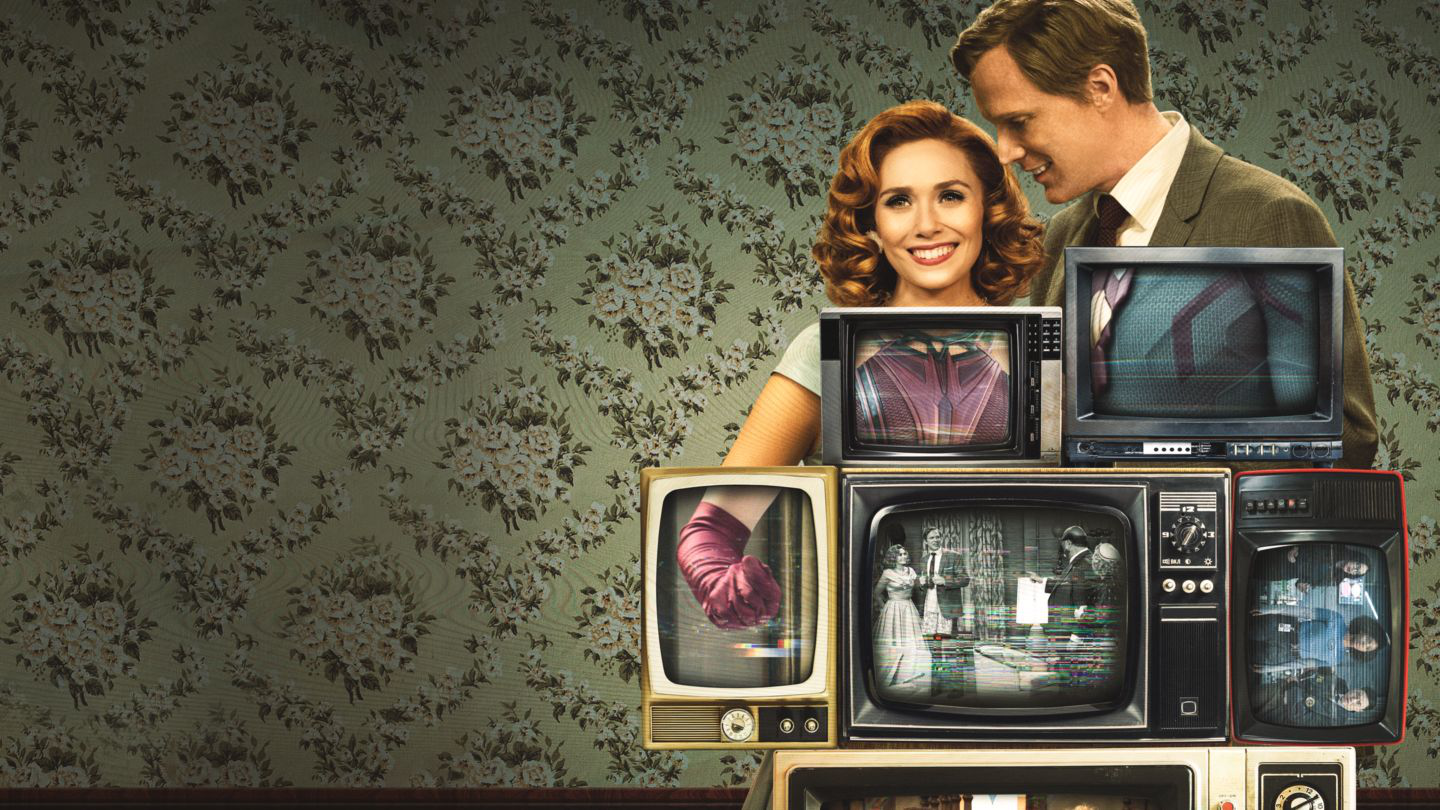
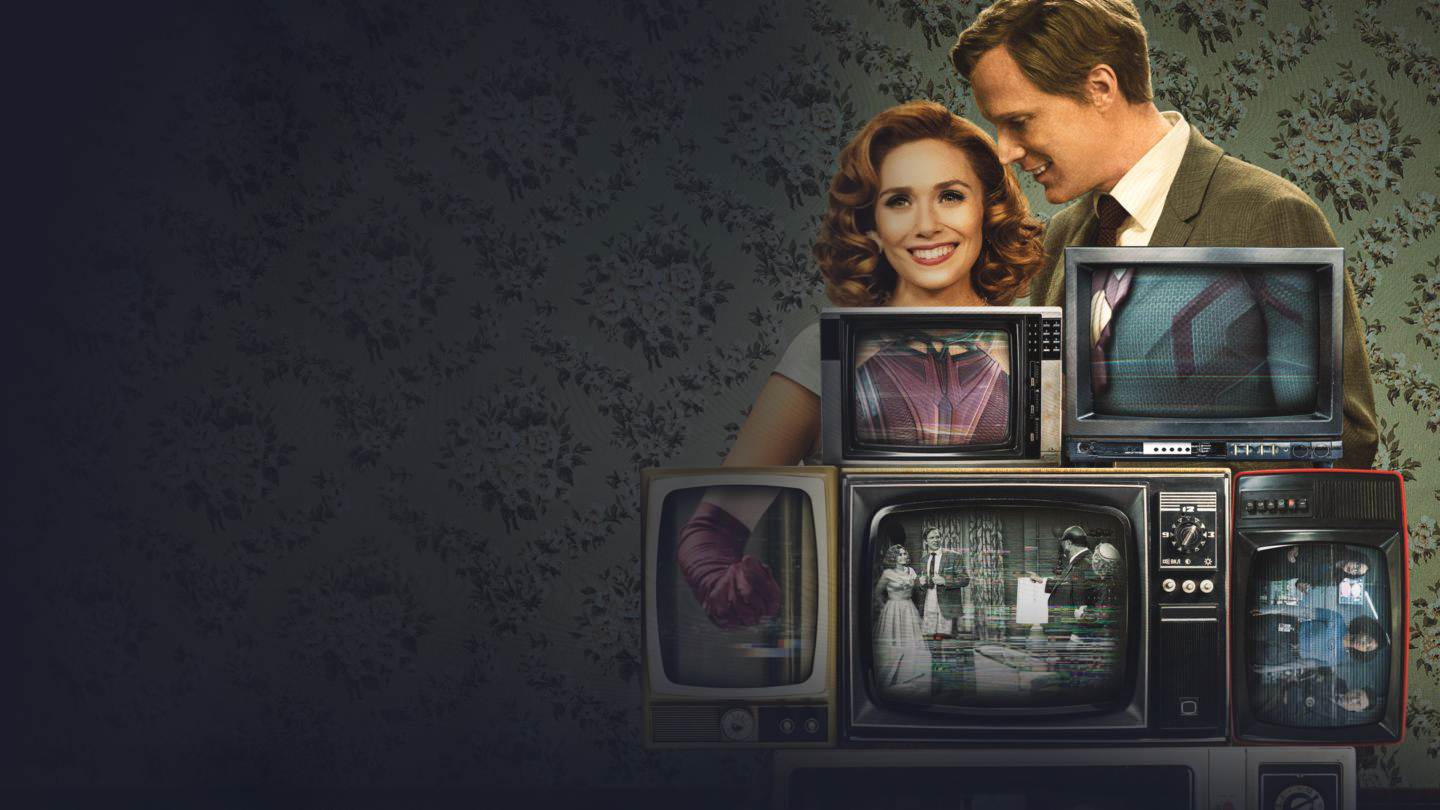
de hoje

diff --git a/src/components/MovieAndSeriePage/styles.ts b/src/components/MovieAndSeriePage/styles.ts
@@ -6,17 +6,24 @@ interface BackgroundProps {
 
 export const ContainerWandavisionPageFilm = styled.div<BackgroundProps>`
   position: relative;
-  background: no-repeat;
 
-  .featuredVertical {
+  /* .featuredVertical {
     width: 100%;
     background: linear-gradient(to top, rgb(26, 29, 41) 10%, transparent 30%);
+
+    @media (min-width: 1280px) {
+      height: 100vh;
+    }
   }
 
   .featuredHorizontal {
     width: 100%;
     background: linear-gradient(to right, rgb(26, 29, 41) 2%, transparent 100%);
-  }
+
+    @media (min-width: 1280px) {
+      height: 100vh;
+    }
+  } */
 
   .background_img {
     position: absolute;
@@ -24,7 +31,7 @@ export const ContainerWandavisionPageFilm = styled.div<BackgroundProps>`
     width: 100%;
     z-index: -999;
     filter: ${props =>
-      props.isScrolled ? 'brightness(55%)' : 'brightness(100%)'};
+      props.isScrolled ? 'brightness(78%)' : 'brightness(100%)'};
     transition: filter 400ms;
     opacity: 350px;
   }
@@ -41,8 +48,18 @@ export const FilmInformation = styled.div`
   flex-direction: column;
 
   .logoFilm_img {
-    margin-top: 100px;
+    margin-top: 130px;
     width: 35%;
+
+    @media (min-width: 2560px) {
+      margin: 300px 0 0 100px;
+      width: 20%;
+    }
+
+    @media (min-width: 3440px) {
+      margin: 600px 0 0 100px;
+      width: 20%;
+    }
 
     @media (max-width: 650px) {
       margin-top: 80px;
@@ -53,6 +70,10 @@ export const FilmInformation = styled.div`
     display: flex;
     justify-content: start;
     width: 550px;
+
+    @media (min-width: 2560px) {
+      margin-left: 100px;
+    }
   }
 
   .genreMovie {
@@ -79,6 +100,10 @@ export const InfoFilm = styled.div`
   margin: 0 30px 0 30px;
   font-family: 'AvenirRoman';
   font-size: 20px;
+
+  @media (min-width: 2560px) {
+    margin-left: 130px;
+  }
 
   .genreMovie {
     margin: 15px 0 15px 0;

diff --git a/src/components/Carousel/index.tsx b/src/components/Carousel/index.tsx
@@ -12,15 +12,28 @@ type CarouselProps = { slides: Slide[] };
 const Carousel = ({ slides }: PropsWithChildren<CarouselProps>) => {
   return (
     <Container>
-      <SanCarousel
-        slides={slides}
-        autoPlay={4000}
-        height="360px"
-        slideSize="88%"
-        focusSlide
-        slideBorderRadius="10px"
-        spaceBetweenSlides="10px"
-      />
+      <div className="teste">
+        <SanCarousel
+          slides={slides}
+          autoPlay={4000}
+          height="360px"
+          slideSize="88%"
+          focusSlide
+          slideBorderRadius="10px"
+          spaceBetweenSlides="10px"
+        />
+      </div>
+      <div className="teste2">
+        <SanCarousel
+          slides={slides}
+          autoPlay={4000}
+          height="860px"
+          slideSize="88%"
+          focusSlide
+          slideBorderRadius="10px"
+          spaceBetweenSlides="10px"
+        />
+      </div>
     </Container>
   );
 };

diff --git a/src/components/TestCarousel/styles.ts b/src/components/TestCarousel/styles.ts
@@ -9,6 +9,14 @@ export const Container = styled.div`
   height: 200px;
   width: 100%;
 
+  @media (min-width: 1700px) {
+    height: 350px;
+  }
+
+  @media (min-width: 2560px) {
+    height: 600px;
+  }
+
   .rec-carousel-item:focus {
     outline: none;
   }
@@ -21,6 +29,18 @@ export const Container = styled.div`
     height: 200px;
     background-color: transparent !important;
     box-shadow: none !important;
+
+    @media (min-width: 1700px) {
+      color: #fff;
+      font-size: 30px;
+      height: 350px;
+    }
+
+    @media (min-width: 2560px) {
+      color: #fff;
+      font-size: 60px;
+      height: 600px;
+    }
   }
 `;
 

diff --git a/src/components/FilmCard/styles.ts b/src/components/FilmCard/styles.ts
@@ -13,6 +13,16 @@ export const Container = styled.div`
   height: 140px;
   transition: all 250ms cubic-bezier(0.25, 0.46, 0.45, 0.94) 0s;
 
+  @media (min-width: 2560px) {
+    width: 400px;
+    height: 230px;
+  }
+
+  @media (min-width: 3440px) {
+    width: 500px;
+    height: 280px;
+  }
+
   img {
     width: 100%;
     position: absolute;
@@ -28,5 +38,9 @@ export const Container = styled.div`
   :hover {
     transform: scale(1.1);
     border: 2px solid #fff;
+
+    @media (min-width: 2560px) {
+      border: 4px solid #fff;
+    }
   }
 `;

diff --git a/src/components/TestCarousel/index.tsx b/src/components/TestCarousel/index.tsx
@@ -40,10 +40,15 @@ const TesteCarousel: React.FC<CarouselImages> = ({
   // ref={containerRef}
 
   const breakPoints = [
+    { width: 375, itemsToShow: 1, itemsToScroll: 1 },
     { width: 550, itemsToShow: 2, itemsToScroll: 2 },
     { width: 600, itemsToShow: 3, itemsToScroll: 3 },
     { width: 768, itemsToShow: 4 },
     { width: 1200, itemsToShow: 5 },
+    { width: 1500, itemsToShow: 4 },
+    { width: 1700, itemsToShow: 4 },
+    { width: 2500, itemsToShow: 4 },
+    { width: 3100, itemsToShow: 4 },
   ];
 
   return (

diff --git a/src/components/Tab/styles.ts b/src/components/Tab/styles.ts
@@ -8,8 +8,14 @@ export const Container = styled.div`
   width: 100%;
   height: 70%;
   background: transparent;
-  margin-top: 100px;
+  margin-top: 40px;
   word-break: break-all;
+
+  @media (min-width: 2560px) {
+    width: 85%;
+    height: 70%;
+    margin-left: 100px;
+  }
 `;
 
 export const BlocTabs = styled.div`
@@ -86,7 +92,6 @@ export const ContentTabs = styled.div`
       h2 {
         font-weight: 600;
         text-align: start;
-        padding: 30px 0 30px 10px;
       }
     }
   }

diff --git a/src/components/TestCarousel/Item.ts b/src/components/TestCarousel/Item.ts
@@ -18,11 +18,18 @@ export default styled.div`
     }
 
     img {
-      max-width: 100%;
-      max-height: 100%;
+      width:200px;
       border-radius:4px;
       box-shadow: rgb(0 0 0 / 69%) 0px 26px 30px -10px,
         rgb(0 0 0 / 73%) 0px 16px 10px -10px;
+
+        @media (min-width: 1700px) {
+         width:350px;
+    }
+
+        @media (min-width: 2560px) {
+         width:500px;
+    }
 
       &:hover {
         border: 4px solid #fff;

diff --git a/src/screens/Dashboard/styles.tsx b/src/screens/Dashboard/styles.tsx
@@ -12,6 +12,15 @@ export const FilmCardContent = styled.div`
   flex-direction: row;
   grid-template-columns: repeat(auto-fit, 250px);
   gap: 17px;
+
+  @media (min-width: 2560px) {
+    grid-template-columns: repeat(auto-fit, 450px);
+  }
+
+  @media (min-width: 3440px) {
+    grid-template-columns: repeat(auto-fit, 550px);
+    gap: 20px;
+  }
 `;
 
 export const ContainerCarouselFilms = styled.div`

diff --git a/src/components/Carousel/styles.ts b/src/components/Carousel/styles.ts
@@ -1,3 +1,20 @@
 import styled from 'styled-components';
 
-export const Container = styled.section``;
+export const Container = styled.section`
+  .teste2 {
+    display: none;
+  }
+
+  @media (min-width: 2560px) {
+    svg {
+      width: 100px;
+      font-size: 100px;
+    }
+    .teste {
+      display: none;
+    }
+    .teste2 {
+      display: flex;
+    }
+  }
+`;
